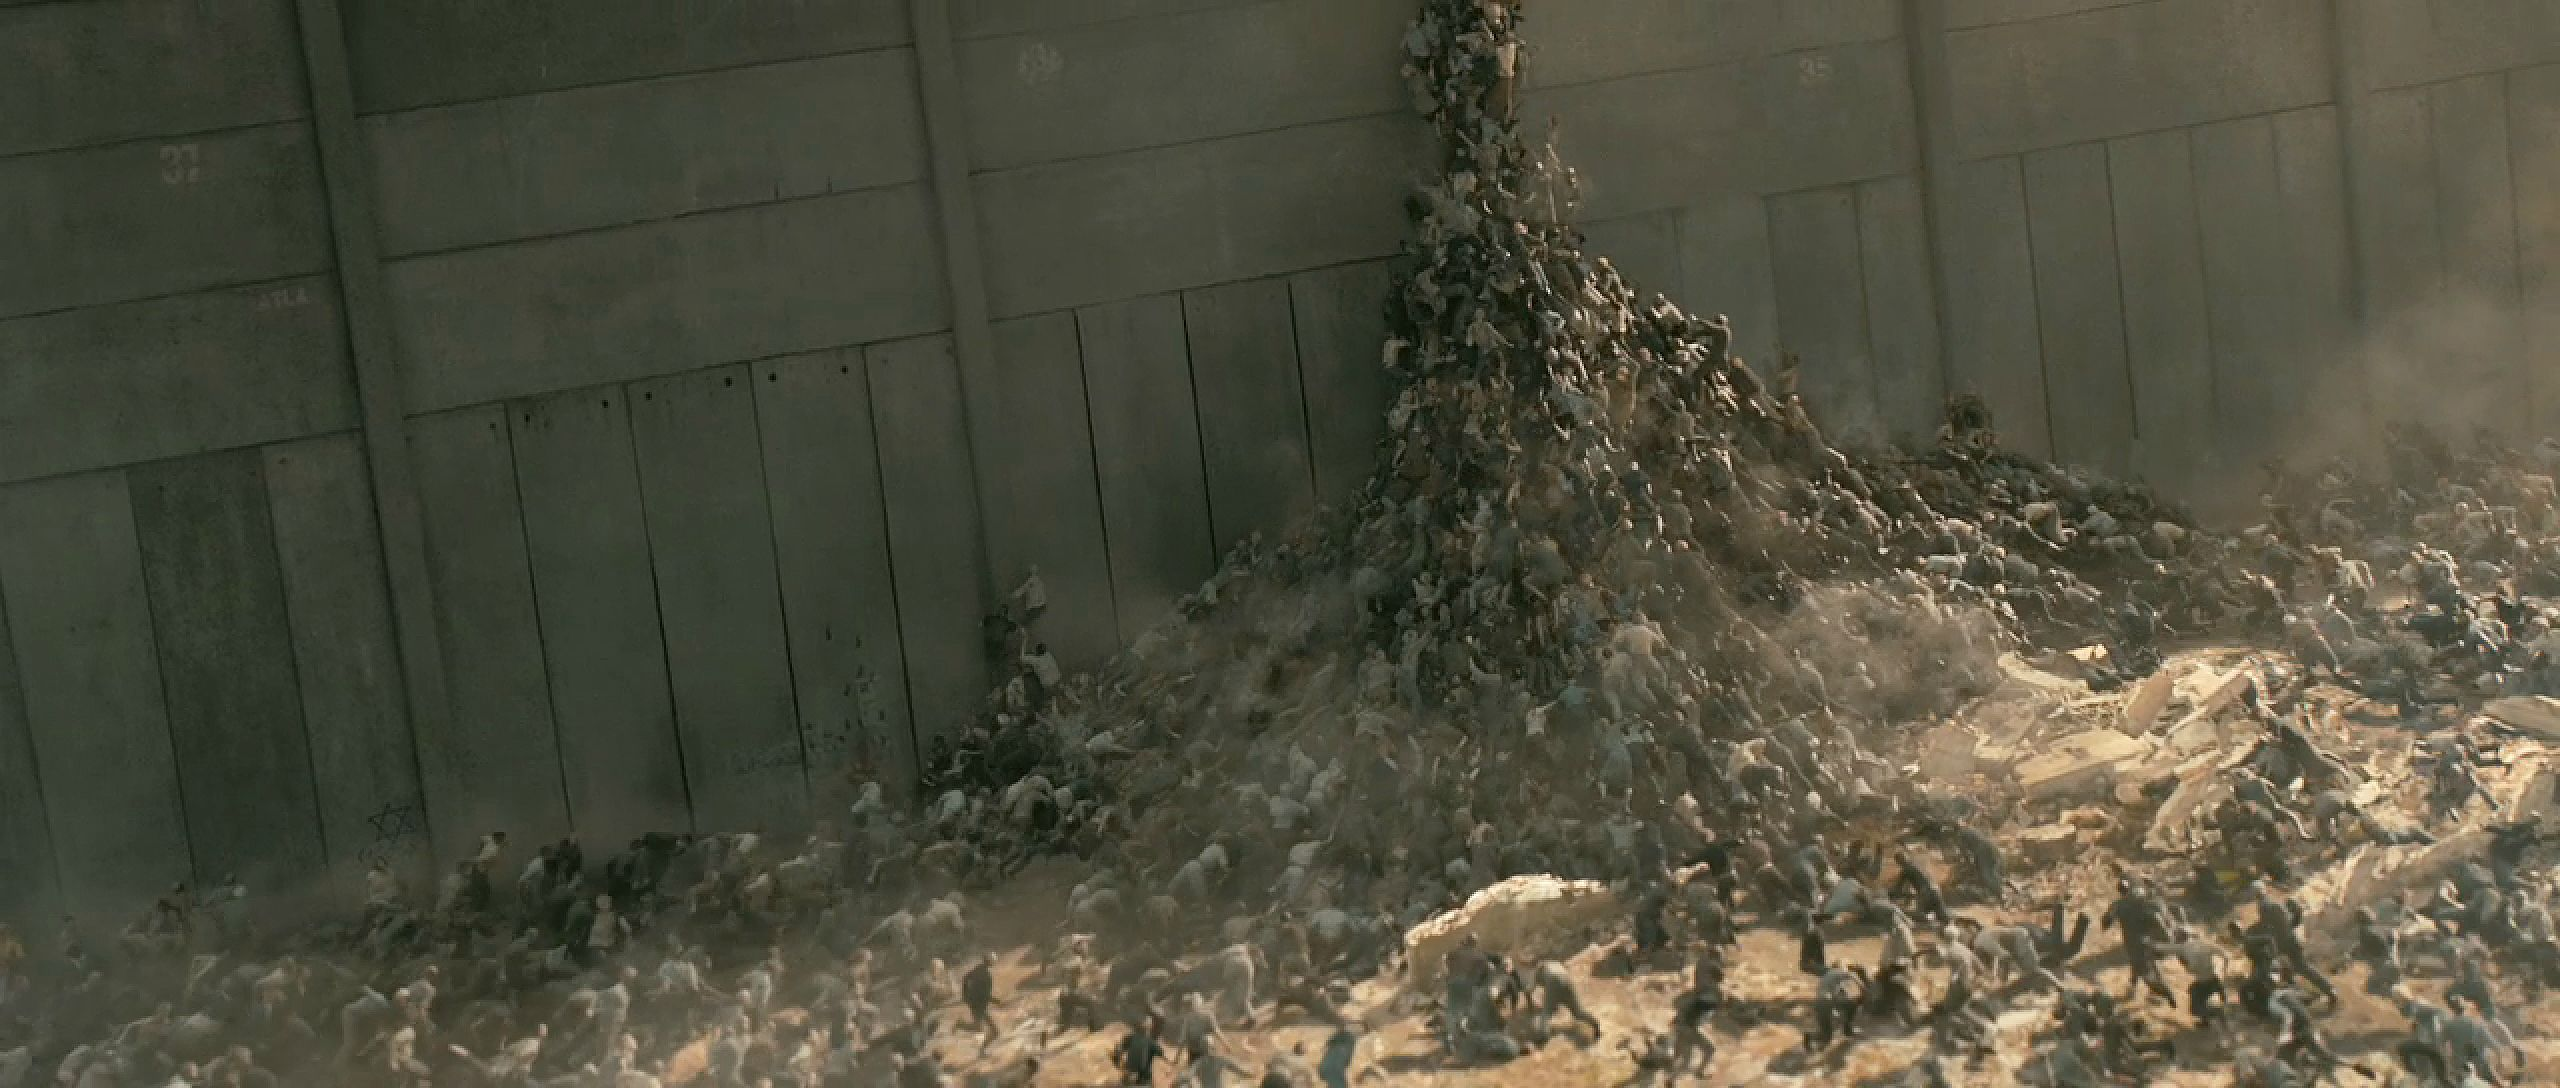
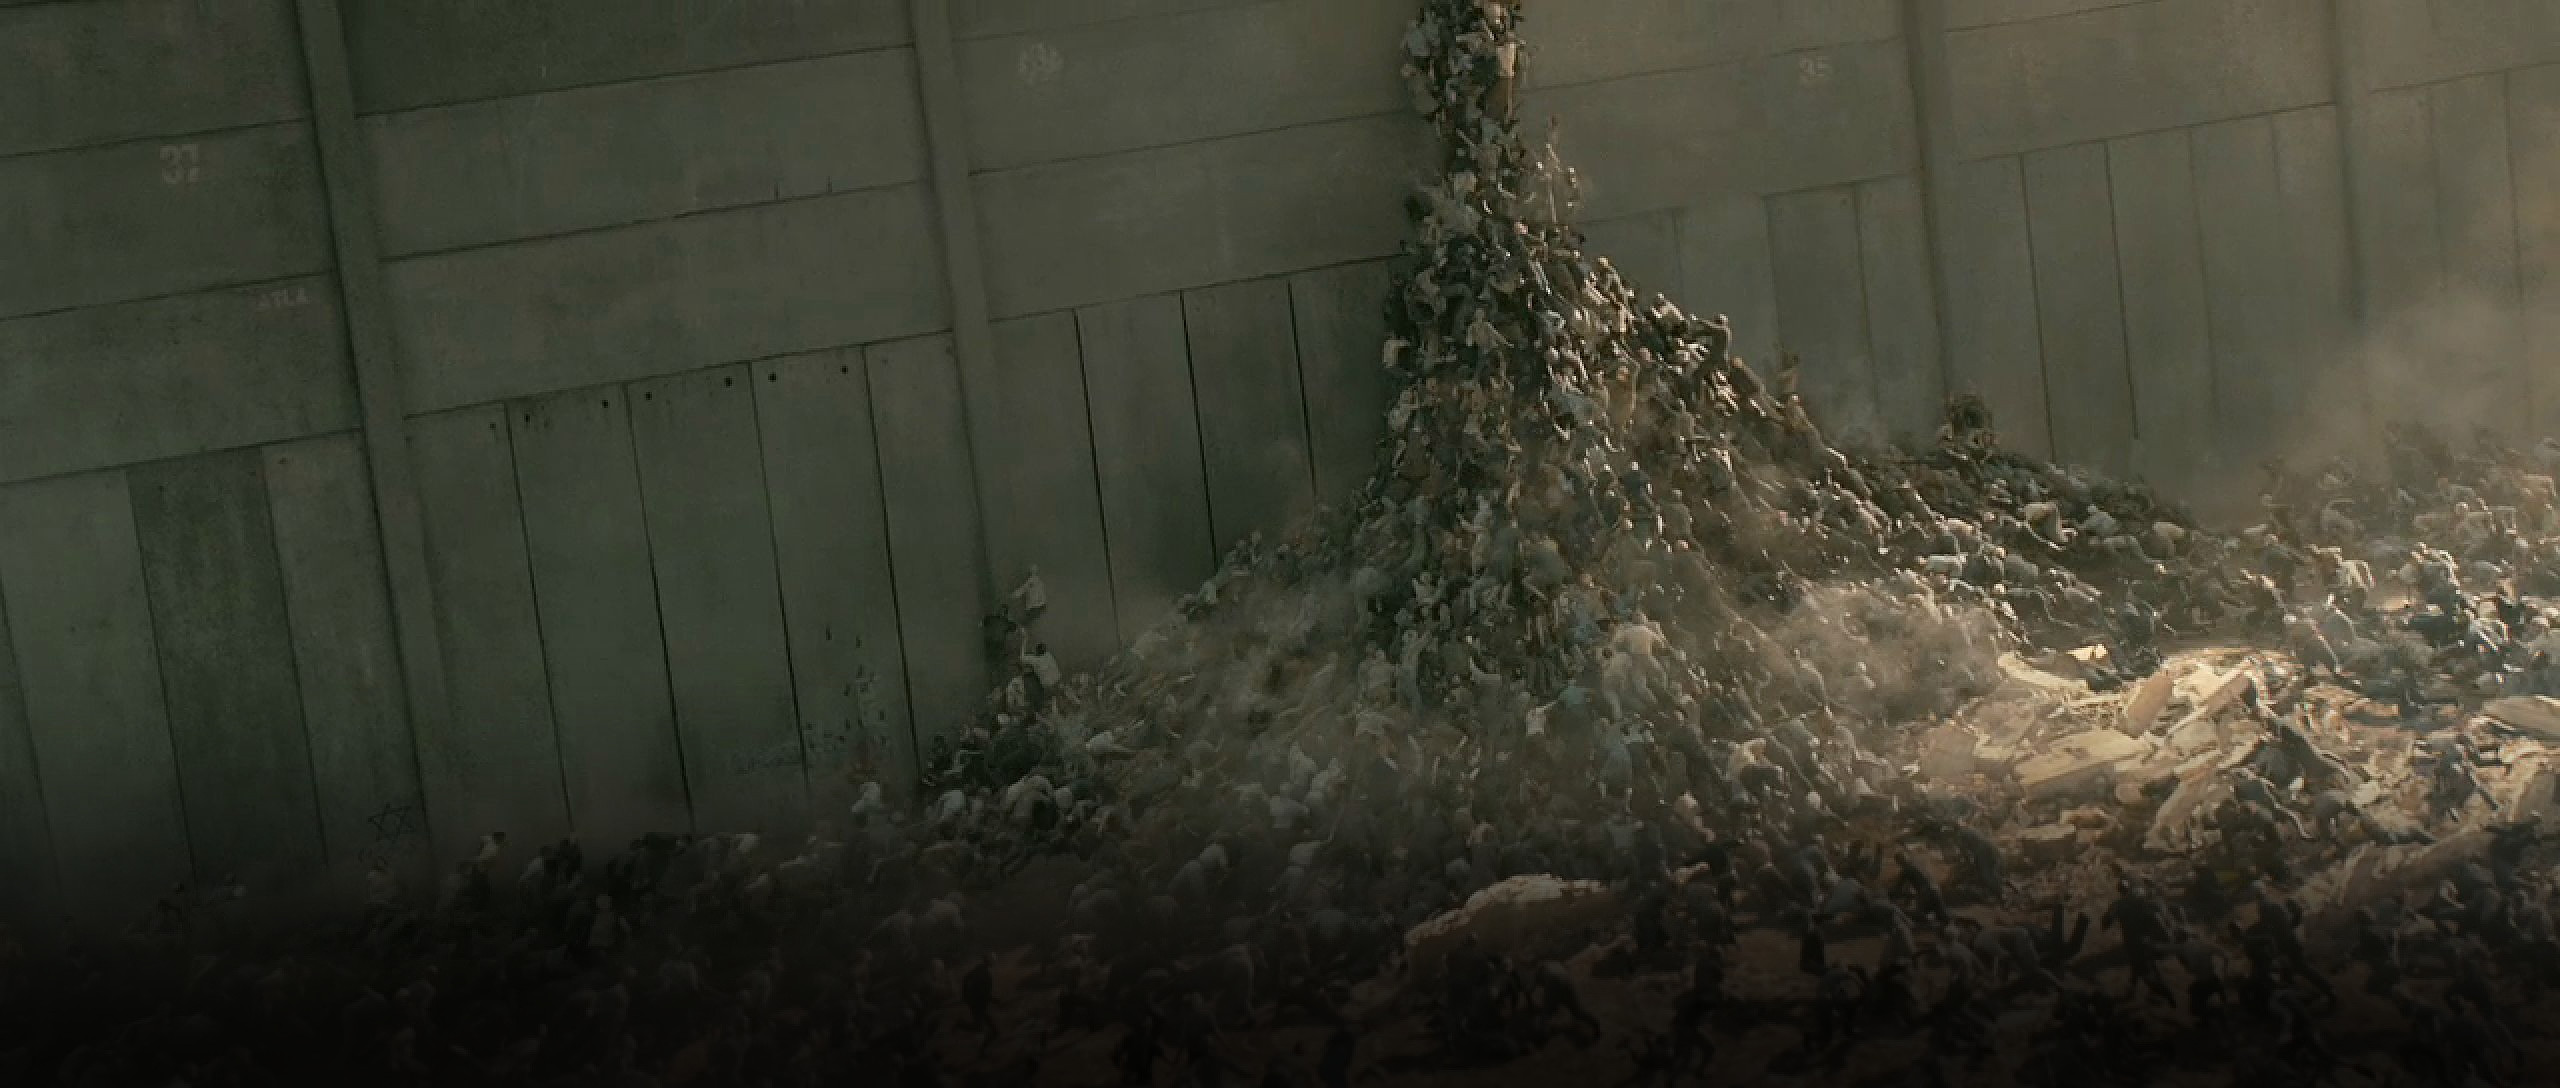
Agrego etiquetas, fondo y variable cura.

Changed region(s): [[0.0, 0.6562, 1.0, 1.0]]

diff --git a/mod.html b/mod.html
@@ -11,12 +11,12 @@
         position: absolute;
         bottom: 10px;
         right: 20px;
-        color: #000;
+        color: #FFF;
     }
 </style>
 </head>
 
-<body>
+<body style="background: url(bg.jpg) no-repeat;  background-size: cover; background-attachment: fixed;;color:#FFF">
 
 <div id="params">
 
@@ -26,7 +26,7 @@
   <td id="t1" style="text-align:right">Población Inicial de Humanos : </td>
   <td id="c1" style="width:80px"><text id="human">0</text></td>
   <td id="n1">0</td>
-  <td><input id="human_slider" type="range" min="0" max="1000" step="1" oninput="updatehuman(this.value)"/></td>
+  <td><input id="human_slider" type="range" min="0" max="1000" step="1" oninput="update('human',this.value)"/></td>
   <td id="m1">1000</td>
 </tr>
 
@@ -34,7 +34,7 @@
   <td style="text-align:right">Población Inicial de Zombis : </td>
   <td><text id="zombi">0</text></td>
   <td>0</td>
-  <td><input id="zombi_slider" type="range" min="0" max="100" step="1" oninput="updatezombi(this.value)"/></td>
+  <td><input id="zombi_slider" type="range" min="0" max="100" step="1" oninput="update('zombi',this.value)"/></td>
   <td>100</td>
 </tr>
 
@@ -42,7 +42,7 @@
   <td style="text-align:right">Tasa de Natalidad : </td>
   <td><text id="born">0</text></td>
   <td>0.0</td>
-  <td><input id="born_slider" type="range" min="0" max="1" step="0.001" oninput="updateborn(this.value)"/></td>
+  <td><input id="born_slider" type="range" min="0" max="1" step="0.001" oninput="update('born',this.value)"/></td>
   <td>1.0</td>
 </tr>
 
@@ -51,7 +51,7 @@
   <td style="text-align:right">Tasa de Mortalidad : </td>
   <td><text id="dead">0</text></td>
   <td>0.0</td>
-  <td><input id="dead_slider" type="range" min="0" max="1" step="0.001" oninput="updatedead(this.value)"/></td>
+  <td><input id="dead_slider" type="range" min="0" max="1" step="0.001" oninput="update('dead',this.value)"/></td>
   <td>1.0</td>
 </tr>
 
@@ -59,7 +59,7 @@
   <td style="text-align:right">Tasa de Interacción : </td>
   <td><text id="meet">0</text></td>
   <td>0.0</td>
-  <td><input id="meet_slider" type="range" min="0" max="1" step="0.001" oninput="updatemeet(this.value)"/></td>
+  <td><input id="meet_slider" type="range" min="0" max="1" step="0.001" oninput="update('meet',this.value)"/></td>
   <td>1.0</td>
 </tr>
 
@@ -67,7 +67,15 @@
   <td style="text-align:right">Tasa de Conversión : </td>
   <td><text id="turn">0</text></td>
   <td>0.0</td>
-  <td><input id="turn_slider" type="range" min="0" max="1" step="0.001" oninput="updateturn(this.value)"/></td>
+  <td><input id="turn_slider" type="range" min="0" max="1" step="0.001" oninput="update('turn',this.value)"/></td>
+  <td>1.0</td>
+</tr>
+
+<tr>
+  <td style="text-align:right">Tasa de Vacunación : </td>
+  <td><text id="cure">0</text></td>
+  <td>0.0</td>
+  <td><input id="cure_slider" type="range" min="0" max="1" step="0.001" oninput="update('cure',this.value)"/></td>
   <td>1.0</td>
 </tr>
 
@@ -85,7 +93,7 @@
   <td id="t2">Años de Simulación : </td>
   <td id="c2" style="width:40px"><text id="year">0</text></td>
   <td id="n2">1</td>
-  <td><input id="year_slider" type="range" min="1" max="200" step="1" oninput="updateyear(this.value)"/></td>
+  <td><input id="year_slider" type="range" min="1" max="200" step="1" oninput="update('year',this.value)"/></td>
   <td id="m2">200</td>
 </tr>
 
@@ -98,10 +106,11 @@
 <script>
 HUMAN_INIT = 100
 ZOMBI_INIT = 10
-BORN_INIT = 0.17
+BORN_INIT = 0.09
 DEAD_INIT = 0.08
 MEET_INIT = 0.0
 TURN_INIT = 1.0
+CURE_INIT = 0.0
 YEARS_INIT = 50
 H = 30+document.getElementById("event").offsetHeight+document.getElementById("params").offsetHeight
 W1 = 100+document.getElementById("t1").offsetWidth+document.getElementById("n1").offsetWidth+
@@ -109,7 +118,6 @@ W1 = 100+document.getElementById("t1").offsetWidth+document.getElementById("n1")
 W2 = 100+document.getElementById("t2").offsetWidth+document.getElementById("n2").offsetWidth+
   document.getElementById("m2").offsetWidth+document.getElementById("c2").offsetWidth+
   document.getElementById("event").offsetWidth
-document.getElementById("year_slider").value = YEARS_INIT
 document.getElementById("human_slider").value = HUMAN_INIT
 document.getElementById("human").innerHTML = HUMAN_INIT;
 document.getElementById("zombi_slider").value = ZOMBI_INIT
@@ -122,28 +130,12 @@ document.getElementById("meet_slider").value = MEET_INIT
 document.getElementById("meet").innerHTML = MEET_INIT;
 document.getElementById("turn_slider").value = TURN_INIT
 document.getElementById("turn").innerHTML = TURN_INIT;
+document.getElementById("cure_slider").value = CURE_INIT
+document.getElementById("cure").innerHTML = CURE_INIT;
 document.getElementById("year_slider").value = YEARS_INIT
 document.getElementById("year").innerHTML = YEARS_INIT;
-function updateyear(val) {
-document.getElementById("year").innerHTML = val;
-}
-function updatehuman(val) {
-document.getElementById("human").innerHTML = val;
-}
-function updatezombi(val) {
-document.getElementById("zombi").innerHTML = val;
-}
-function updateborn(val) {
-document.getElementById("born").innerHTML = val;
-}
-function updatedead(val) {
-document.getElementById("dead").innerHTML = val;
-}
-function updatemeet(val) {
-document.getElementById("meet").innerHTML = val;
-}
-function updateturn(val) {
-document.getElementById("turn").innerHTML = val;
+function update(what,val) {
+document.getElementById(what).innerHTML = val;
 }
 (function () {
   var
@@ -158,6 +150,7 @@ document.getElementById("turn").innerHTML = val;
     document.getElementById("dead_slider").style="width:"+(window.innerWidth-W1)+"px;"
     document.getElementById("meet_slider").style="width:"+(window.innerWidth-W1)+"px;"
     document.getElementById("turn_slider").style="width:"+(window.innerWidth-W1)+"px;"
+    document.getElementById("cure_slider").style="width:"+(window.innerWidth-W1)+"px;"
     document.getElementById("year_slider").style="width:"+(window.innerWidth-W2)+"px;"
     container.style="overflow:hidden;width:"+(window.innerWidth-80)+"px;height:"+(window.innerHeight-H)+"px;"
     var h0 = document.getElementById("human_slider").value;
@@ -166,6 +159,7 @@ document.getElementById("turn").innerHTML = val;
     var ded = document.getElementById("dead_slider").value;
     var meet = document.getElementById("meet_slider").value;
     var turn = document.getElementById("turn_slider").value;
+    var cure = document.getElementById("cure_slider").value;
     var years = document.getElementById("year_slider").value;
 
     humans = [[0,h0]];
@@ -182,8 +176,8 @@ document.getElementById("turn").innerHTML = val;
       var turned_to_zombie = battle*turn;
       var zombie_killed = battle*(1.0-turn);
 
-      var hi1 = hi + (hi*nat) - (hi*ded) - turned_to_zombie;
-      var zi1 = zi + turned_to_zombie - zombie_killed;
+      var hi1 = hi + (hi*nat) - (hi*ded) - turned_to_zombie + (zi*cure);
+      var zi1 = zi + turned_to_zombie - zombie_killed - (zi*cure);
 
       if (hi1 > maxval) maxval = hi1;
       humans.push([i+1,hi1]);
@@ -195,10 +189,24 @@ document.getElementById("turn").innerHTML = val;
     maxval *=1.05;
 
     // Draw Graph
-    graph = Flotr.draw(container, [ humans, zombis ], {
+    graph = Flotr.draw(container, [ {data:humans, label:"HUMANOS"}, {data:zombis, label:"ZOMBIS"} ], {
+      legend : {
+        position : 'ne',
+        backgroundColor : '#FFFFFF'
+      },
+      grid:{
+        backgroundColor: 'white'
+      },
       yaxis : {
+        title : 'POBLACIÓN',
+        color:'#FFF',
         max : maxval,
         min : 0
+      },
+      xaxis : {
+        title : 'AÑOS TRANSCURRIDOS',
+        labelsAngle: -45,
+        color:'#FFF'
       }
     });
 
